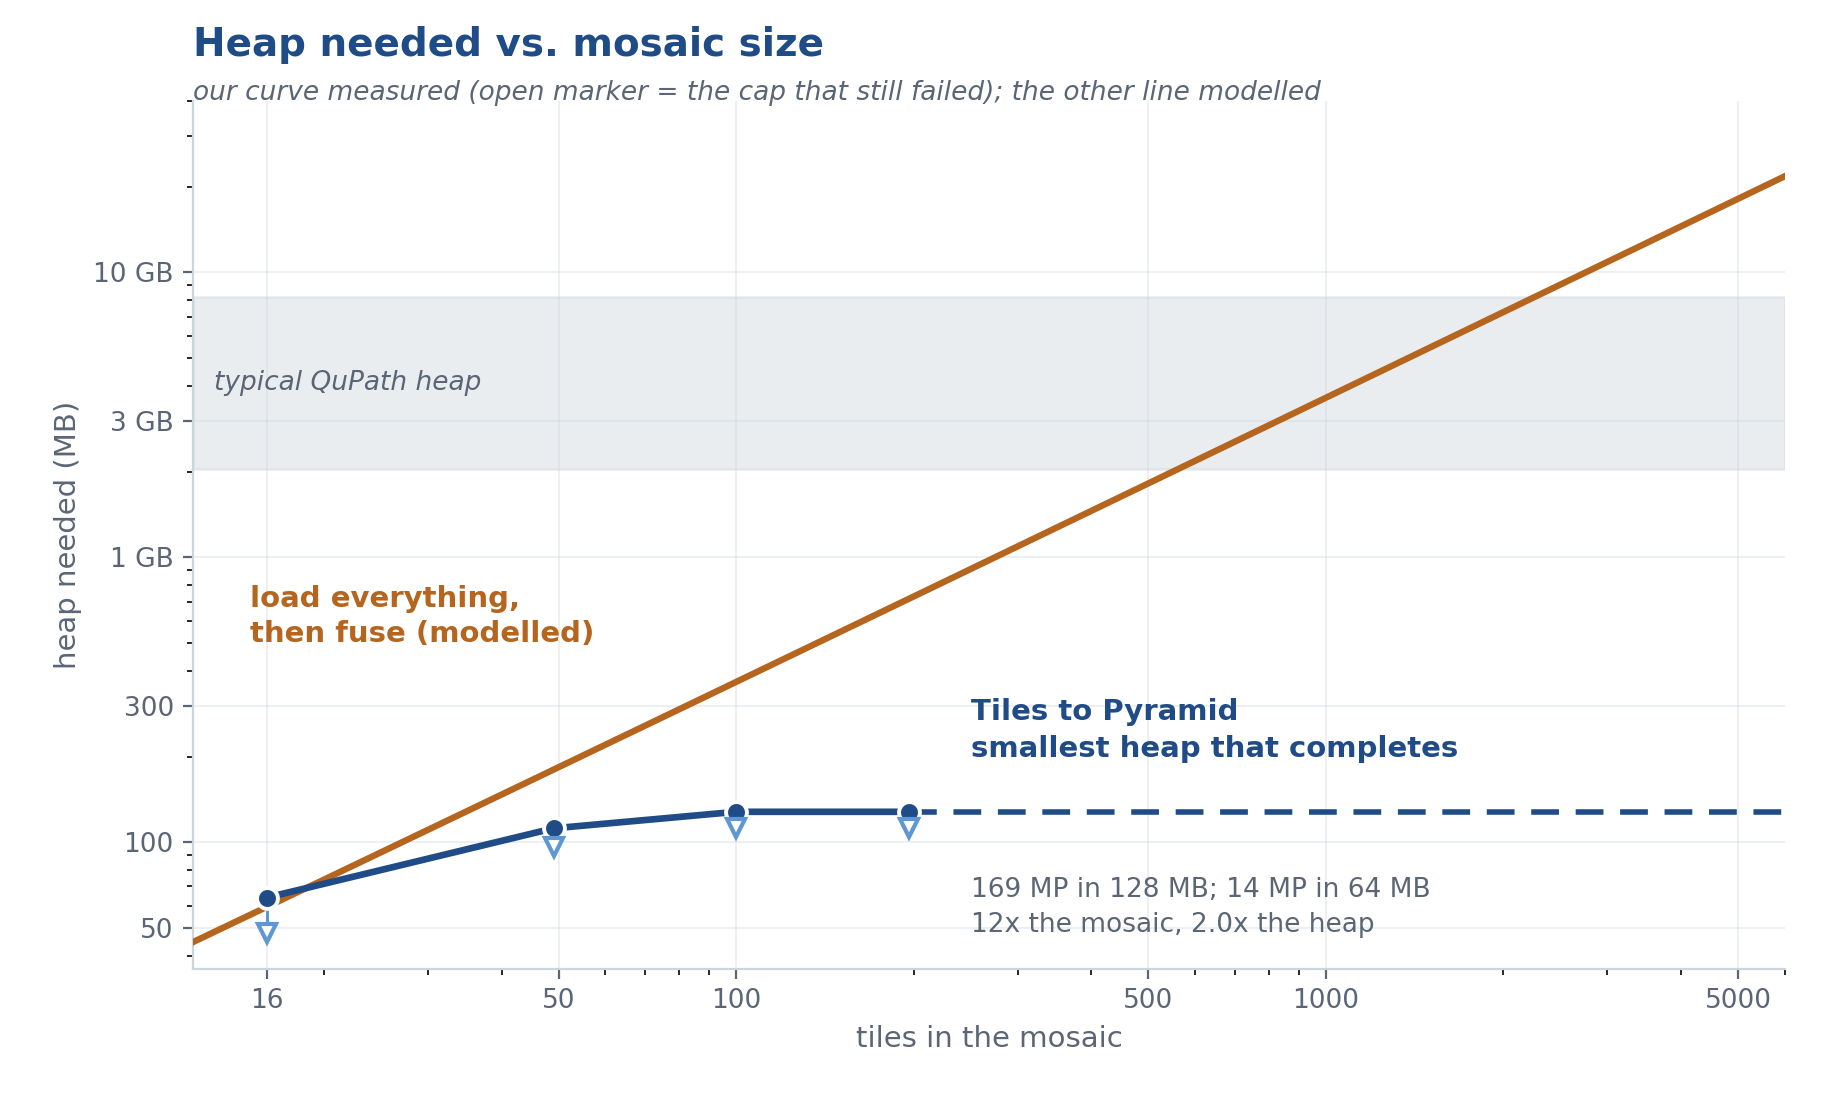
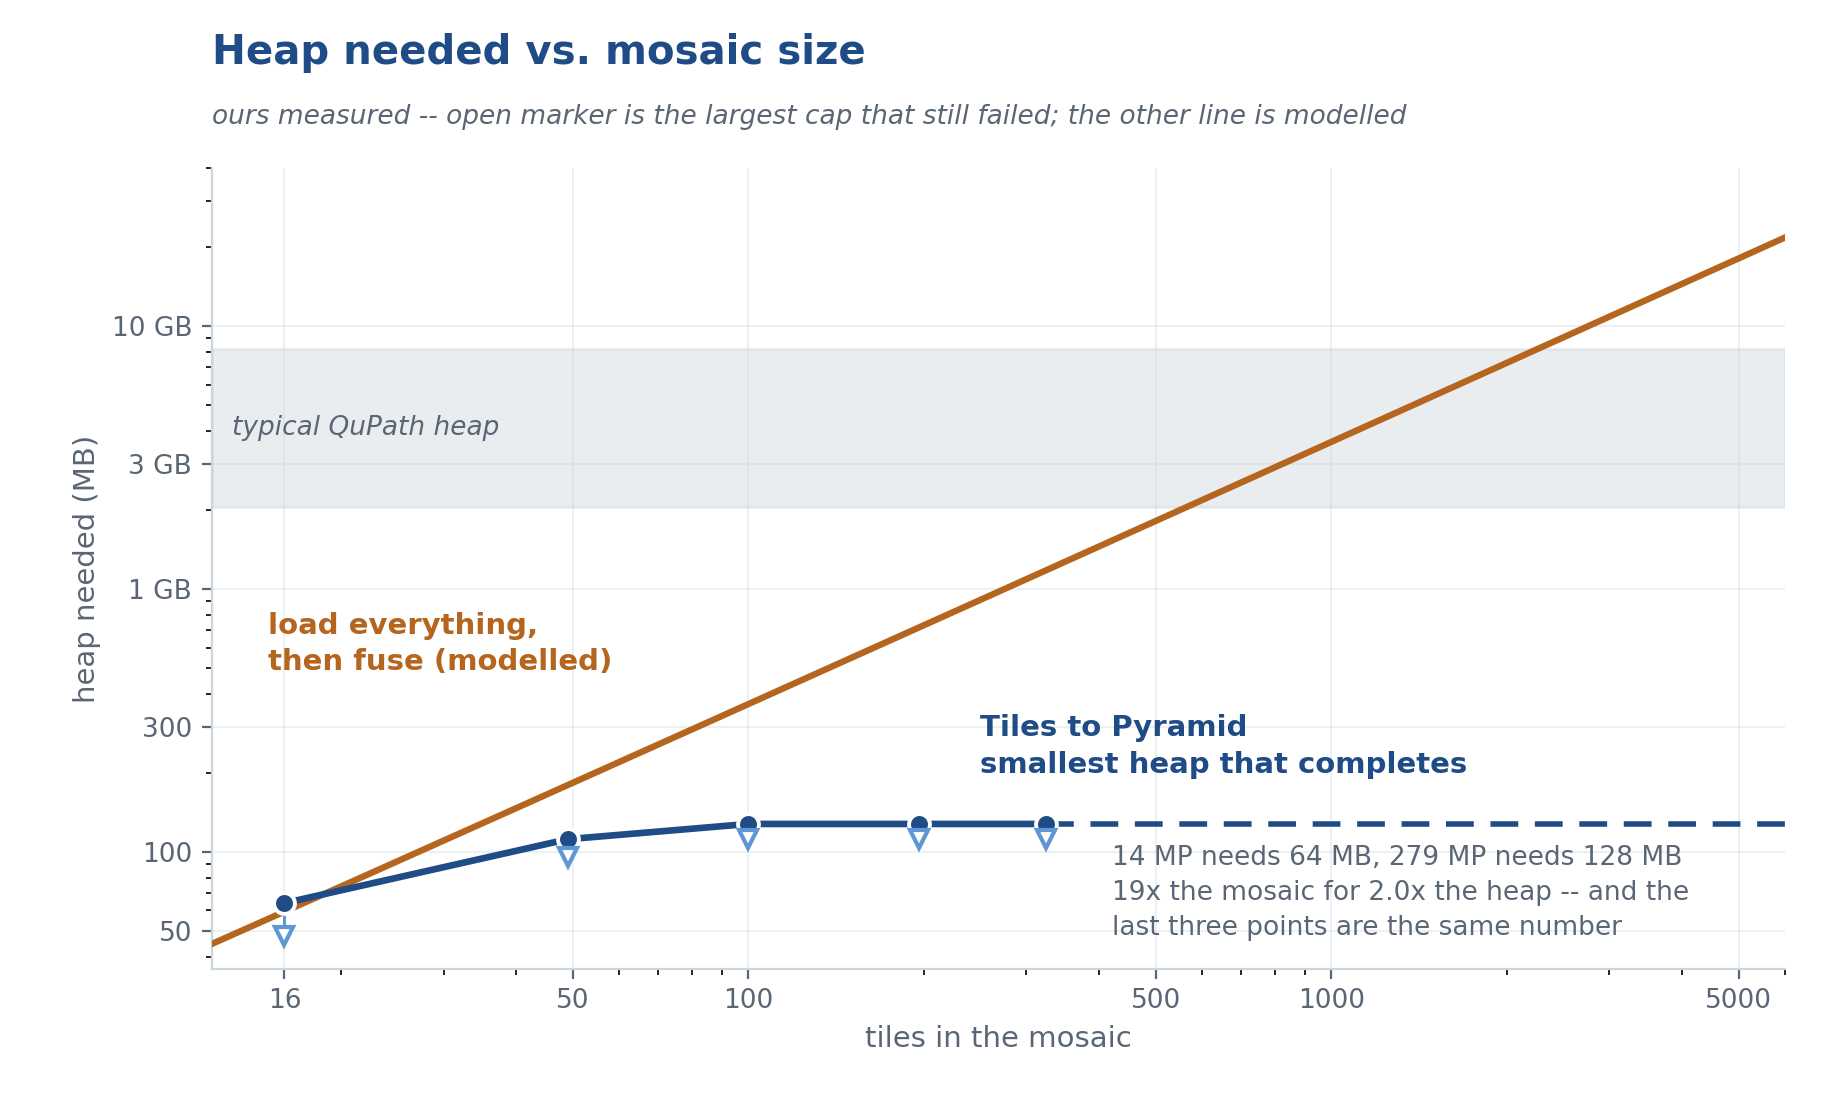
Tiles to Pyramid: show the memory curve instead of asserting it
The memory paragraph asked the reader to take a number on trust, and the
comparison it leaned on -- "the old path needed 2-4 GB" -- undersells the
point, because 2-4 GB is not a lot of memory.

Replaced with a measured curve. Five mosaic sizes, each heap floor bracketed by
the largest cap that still failed, tiles read from disk so the measurement is
the stitcher's and not a fixture's:

   16 tiles   14 MP    64 MB
   49 tiles   43 MP   112 MB
  100 tiles   87 MP   128 MB
  196 tiles  169 MP   128 MB
  324 tiles  279 MP   128 MB

The last three are identical, which is the whole claim: the curve does not grow
slowly, it stops. Against it sits the arithmetic for holding every tile plus one
fused canvas, labelled modelled and kept a generous lower bound -- it climbs
through the typical QuPath heap band while ours runs flat.

Single panel, since this is a page and not a slide; the three-panel deck figure
stays as it is, with the new point added to its data.

Also swaps the nominal-vs-registered pair for one cut from the workshop's own
fluo-cells folder. The old pair was a 5 px error shown at 330 px wide, where it
was invisible -- two panels a reader would call identical. The new one is 12 px
on a hard cut, at the same coordinates in both mosaics with the same intensity
scaling, and the break is plain.

Claude-Session: https://claude.ai/code/session_0196eZ7pJQGJ5ciiaP6XEu5P

diff --git a/docs/13-tiles-to-pyramid.md b/docs/13-tiles-to-pyramid.md
@@ -63,11 +63,17 @@ all of them, so they stay aligned with each other and not just internally.
 - **Multichannel merge**: combine N same-shape single-channel pyramids into one multichannel
   image via a separate `ChannelMerger` step.
 
-**Memory is capped, and the cap barely moves with the size of the mosaic.** A 32-megapixel
-stitch completes in a 96 MB heap; a 169-megapixel one, five times larger, needs 128 MB. The
-exercises below are 33 MP and 15 MP, so both sit at the bottom of that range. Nothing here
-loads the whole mosaic — the stitcher holds one output chunk at a time and reads each tile's
-overlap on demand, so doubling the tile count costs you almost nothing.
+**Memory stops growing.** The stitcher never holds the mosaic — it writes one output chunk at a
+time and reads only the tile overlaps beneath it — so past a certain size the heap it needs
+simply flattens. Measured as the smallest `-Xmx` in which the stitch completes: 87, 169 and 279
+megapixels all finish in the same 128 MB.
+
+<img src="../images/tiles-to-pyramid/memory_scaling.png" alt="Log-log plot of heap needed against tiles in the mosaic. The measured Tiles to Pyramid curve rises from 64 MB at 16 tiles to 128 MB at 100 tiles and then runs flat through 324 tiles, while a modelled load-everything-then-fuse line climbs steadily through the typical QuPath heap band." width="760">
+
+The orange line is what it costs to hold every tile plus one fused canvas — arithmetic, not a
+measurement of any particular program, and a generous lower bound at that. It is the shape that
+matters: that approach grows with your slide, and this one does not. Both exercises below are
+well inside the flat part.
 
 <details markdown="1">
 <summary><b>Install</b> — from the LOCI catalog, then restart QuPath</summary>
